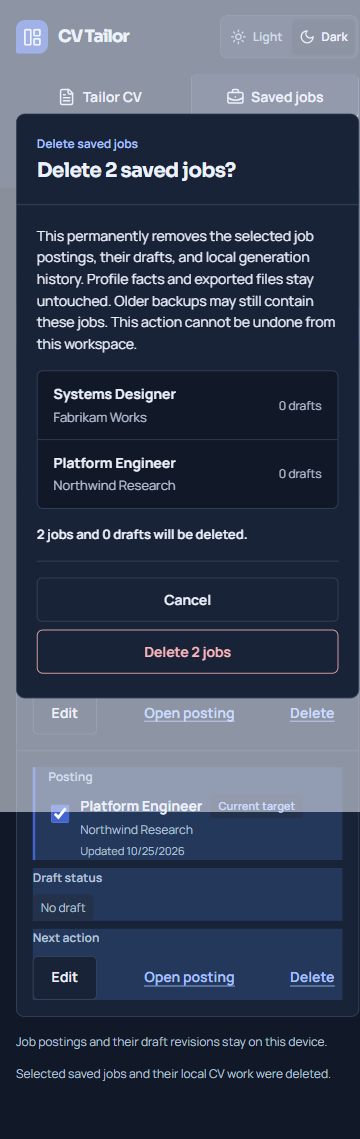
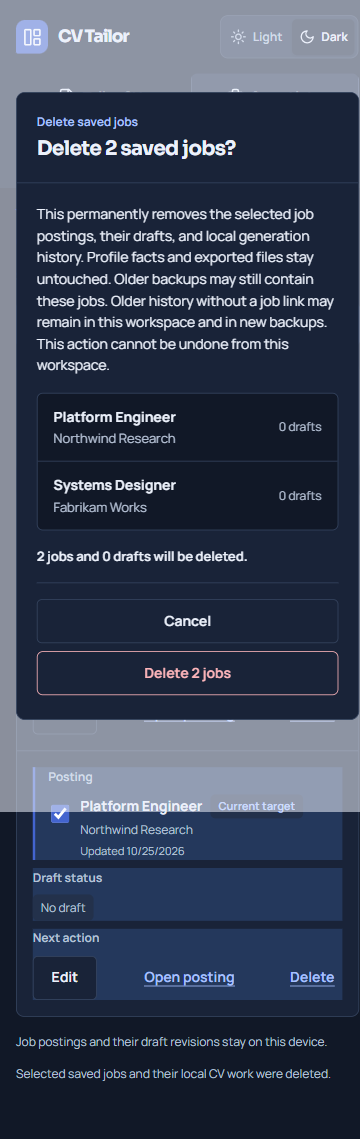
Clarify legacy history in job deletion copy

Changed region(s): [[0.0306, 0.0615, 1.0, 0.4917], [0.0306, 0.5224, 1.0, 0.6453], [0.7639, 0.338, 0.8861, 0.4609]]

diff --git a/src/renderer/SavedJobs.tsx b/src/renderer/SavedJobs.tsx
@@ -378,7 +378,7 @@ export function SavedJobs({ jobs, activeJob, onSaved, onOpened, onDeleted, onNav
     <dialog ref={deletionDialogRef} className="job-dialog deletion-dialog" aria-labelledby="job-deletion-title" aria-describedby="job-deletion-description" onCancel={event => { event.preventDefault(); if (deletionFlow.kind === 'confirming') closeDeletionDialog() }} onClose={() => { if (deletionFlow.kind === 'confirming') closeDeletionDialog() }}>
       {deletionFlow.kind === 'confirming' || deletionFlow.kind === 'submitting' ? <>
         <header className="job-dialog-heading"><div><p className="context">Delete saved jobs</p><h2 id="job-deletion-title">Delete {deletionFlow.jobIds.length === 1 ? 'this saved job?' : `${deletionFlow.jobIds.length} saved jobs?`}</h2></div></header>
-        <section className="job-dialog-form"><p id="job-deletion-description">This permanently removes the selected job postings, their drafts, and local generation history. Profile facts and exported files stay untouched. Older backups may still contain these jobs. This action cannot be undone from this workspace.</p>
+        <section className="job-dialog-form"><p id="job-deletion-description">This permanently removes the selected job postings, their drafts, and local generation history. Profile facts and exported files stay untouched. Older backups may still contain these jobs. Older history without a job link may remain in this workspace and in new backups. This action cannot be undone from this workspace.</p>
           <div className="deletion-preview-list" aria-label="Jobs to delete"><ul>{deletionFlow.preview.jobs.map(job => <li key={job.id}><strong>{job.title}</strong><span>{job.company}</span><small>{job.draftCount} {job.draftCount === 1 ? 'draft' : 'drafts'}</small></li>)}</ul></div>
           <p className="deletion-counts">{deletionFlow.preview.jobs.length} {deletionFlow.preview.jobs.length === 1 ? 'job' : 'jobs'} and {deletionFlow.preview.draftCount ?? 0} {(deletionFlow.preview.draftCount ?? 0) === 1 ? 'draft' : 'drafts'} will be deleted.</p>
           <div className="job-dialog-actions"><button ref={deletionCancelRef} type="button" className="secondary-button" disabled={deletionFlow.kind === 'submitting'} onClick={closeDeletionDialog}>Cancel</button><button type="button" className="danger-button" disabled={deletionFlow.kind === 'submitting'} onClick={() => void executeDeletion()}>{deletionFlow.kind === 'submitting' ? 'Deleting…' : `Delete ${deletionFlow.jobIds.length} ${deletionFlow.jobIds.length === 1 ? 'job' : 'jobs'}`}</button></div>

diff --git a/tests/electron/job-deletion.spec.ts b/tests/electron/job-deletion.spec.ts
@@ -51,6 +51,7 @@ test('saved-job deletion confirms single and bulk choices, preserves cancel stat
     await expect(confirm).toContainText('Product Analyst')
     await expect(confirm).toContainText('Contoso Labs')
     await expect(confirm).toContainText('Profile facts and exported files stay untouched')
+    await expect(confirm).toContainText('Older history without a job link may remain in this workspace and in new backups.')
     await page.screenshot({ path: 'docs/validation/spec-72-d2/deletion-confirm-light.png', fullPage: true })
     await confirm.getByRole('button', { name: 'Cancel' }).click()
     await expect(confirm).toHaveCount(0)

diff --git a/docs/validation/spec-72-implementation.md b/docs/validation/spec-72-implementation.md
@@ -1,5 +1,7 @@
 # Spec 72 D1 implementation evidence
 
+The user approved retaining unattributable legacy history, including in new backups. This report documents that accepted exception. It does not claim installed acceptance.
+
 D1 adds a storage and trusted IPC deletion preview and execute contract. D2 adds and tests the Saved jobs controls. D3 installed acceptance remains open. This report uses synthetic workspaces only. The user's installed Windows executable has not been run or approved for this check.
 
 ## Ownership and baseline
@@ -8,7 +10,7 @@ D1 adds a storage and trusted IPC deletion preview and execute contract. D2 adds
 
 The job's posting source snapshots, source history and accepted revisions live in `jobs.data`. The six tables with direct `job_id` ownership are `posting_analysis_cache`, `analysis_run_state`, `generation_recovery`, `draft_revisions`, `regeneration_proposals` and `document_fit_reports`. `outbound_consents` now records `job_id` at consent time, including consent accepted before analysis starts. Historical rows are backfilled only where surviving run-linked analysis, cache, or recovery proves ownership. Run IDs are collected from those tables and active previews before deletion. For proven job-owned runs, these IDs link `analysis_attempts`, `provider_attempt_outcomes`, `generation_recovery_extensions`, `langgraph_checkpoints` and `langgraph_checkpoint_writes`; the graph thread ID equals the run ID. Selection fingerprint includes all selected row values and active outbound handles. A run linked to an unselected job refuses deletion instead of deleting shared records. Profile rows, evidence revisions, other saved jobs, previous backups and already-exported files are never deletion targets.
 
-The old consent schema stored a run ID without a job ID. If an old run has no surviving recovery, cache, or current analysis record, migration cannot assign its job. This includes abandoned pre-analysis consent, superseded failed or cancelled analyses, and older regeneration runs whose links no longer survive. Related consent, attempt, provider-outcome, recovery-extension, and checkpoint rows can remain after deleting a job because ownership cannot be proven. Unknown rows stay in new backups. Restored consents are revoked, so they cannot authorize a new request. New consent records the job ID at acceptance, including before analysis starts. Whether preserved unknown legacy history satisfies #72 is pending the user's decision; no exception has been approved.
+The old consent schema stored a run ID without a job ID. If an old run has no surviving recovery, cache, or current analysis record, migration cannot assign its job. This includes abandoned pre-analysis consent, superseded failed or cancelled analyses, and older regeneration runs whose links no longer survive. Related consent, attempt, provider-outcome, recovery-extension, and checkpoint rows can remain after deleting a job because ownership cannot be proven. Unknown rows stay in new backups. Restored consents are revoked, so they cannot authorize a new request. New consent records the job ID at acceptance, including before analysis starts. The user approved retaining this unattributable legacy history, including in new backups. The deletion confirmation discloses that exception.
 
 ## Focused acceptance
 
@@ -26,13 +28,13 @@ The deletion API accepts up to the workspace's 5,000-job limit. Ownership, share
 
 After commit, `main.tsx` reloads jobs and backup status, updates sidebar shortcuts, clears a deleted active posting, and ignores a pending older sidebar job-open response. Tailor CV shows its choose-a-posting state; it does not select another job or start a model request. The page and interaction contracts document the deletion controls.
 
-`tests/electron/job-deletion.spec.ts` exercises the real development Electron UI with three synthetic saved jobs and the public preload fixture API. It verifies row checkbox clicks do not navigate, confirmation copy and initial focus, focus restoration after cancel, cancel retention, stale preview refusal and re-preview, single and bulk deletion, exact selected totals, dark appearance at 375px without horizontal page scroll, and active/last-job cleanup. It made no provider request. Screenshot artifacts show the baseline and final light and dark narrow pages and confirmations in `docs/validation/spec-72-d2/`. `npm run typecheck`, `node scripts/check-doc-links.cjs`, `npm run build`, `npx playwright test tests/electron/job-deletion.spec.ts --reporter=line`, and `git diff --check` pass. The focused Electron scenario passed after the focus-restoration assertion.
+`tests/electron/job-deletion.spec.ts` exercises the real development Electron UI with three synthetic saved jobs and the public preload fixture API. It verifies row checkbox clicks do not navigate, confirmation copy and initial focus, focus restoration after cancel, cancel retention, stale preview refusal and re-preview, single and bulk deletion, exact selected totals, dark appearance at 375px without horizontal page scroll, and active/last-job cleanup. The confirmation now states that unattributable old history may remain in the workspace and new backups. It made no provider request. Screenshot artifacts show the baseline and final light and dark narrow pages and confirmations in `docs/validation/spec-72-d2/`. `npm run typecheck`, `node scripts/check-doc-links.cjs`, `npm run build`, `npx playwright test tests/electron/job-deletion.spec.ts --reporter=line`, and `git diff --check` pass. The focused Electron scenario passed after the focus-restoration assertion.
 
 The first development launch exposed two bundled React copies and failed before React rendered. `electron.vite.config.ts` now deduplicates React and React DOM. The visible Electron test passes after that correction. This is a development build configuration change; it does not alter the app's product API.
 
 ## Selection-limit and legacy review follow-up
 
-The focused Electron-ABI Vitest run passed 18 tests in `tests/transactional-job-deletion.test.ts`, `tests/transactional-job-deletion-acceptance.test.ts`, and `tests/workspace-backup.test.ts`. A public storage-API test deleted 501 of 502 saved jobs with 1,101 selected-job consent runs and attempts in one call; one other job, its consent, and its attempt remained. The selection schema accepted 5,000 distinct IDs and refused 5,001. A synthetic pre-ownership backup with two old runs lacking surviving job links retained their consent and attempt rows, an analysis outcome, and a regeneration extension after deleting a job. A linked run's consent and attempts were deleted. `npm run typecheck`, `node scripts/check-doc-links.cjs`, and `git diff --check` passed. These tests use synthetic workspaces, not installed Electron UI or a provider. The legacy-history exception remains pending the user's decision.
+The focused Electron-ABI Vitest run passed 18 tests in `tests/transactional-job-deletion.test.ts`, `tests/transactional-job-deletion-acceptance.test.ts`, and `tests/workspace-backup.test.ts`. A public storage-API test deleted 501 of 502 saved jobs with 1,101 selected-job consent runs and attempts in one call; one other job, its consent, and its attempt remained. The selection schema accepted 5,000 distinct IDs and refused 5,001. A synthetic pre-ownership backup with two old runs lacking surviving job links retained their consent and attempt rows, an analysis outcome, and a regeneration extension after deleting a job. A linked run's consent and attempts were deleted. `npm run typecheck`, `node scripts/check-doc-links.cjs`, and `git diff --check` passed. These tests use synthetic workspaces, not installed Electron UI or a provider. The user accepted the unattributable legacy-history exception, including its presence in new backups.
 
 ## D3 installed-test preparation and remaining gates
 
